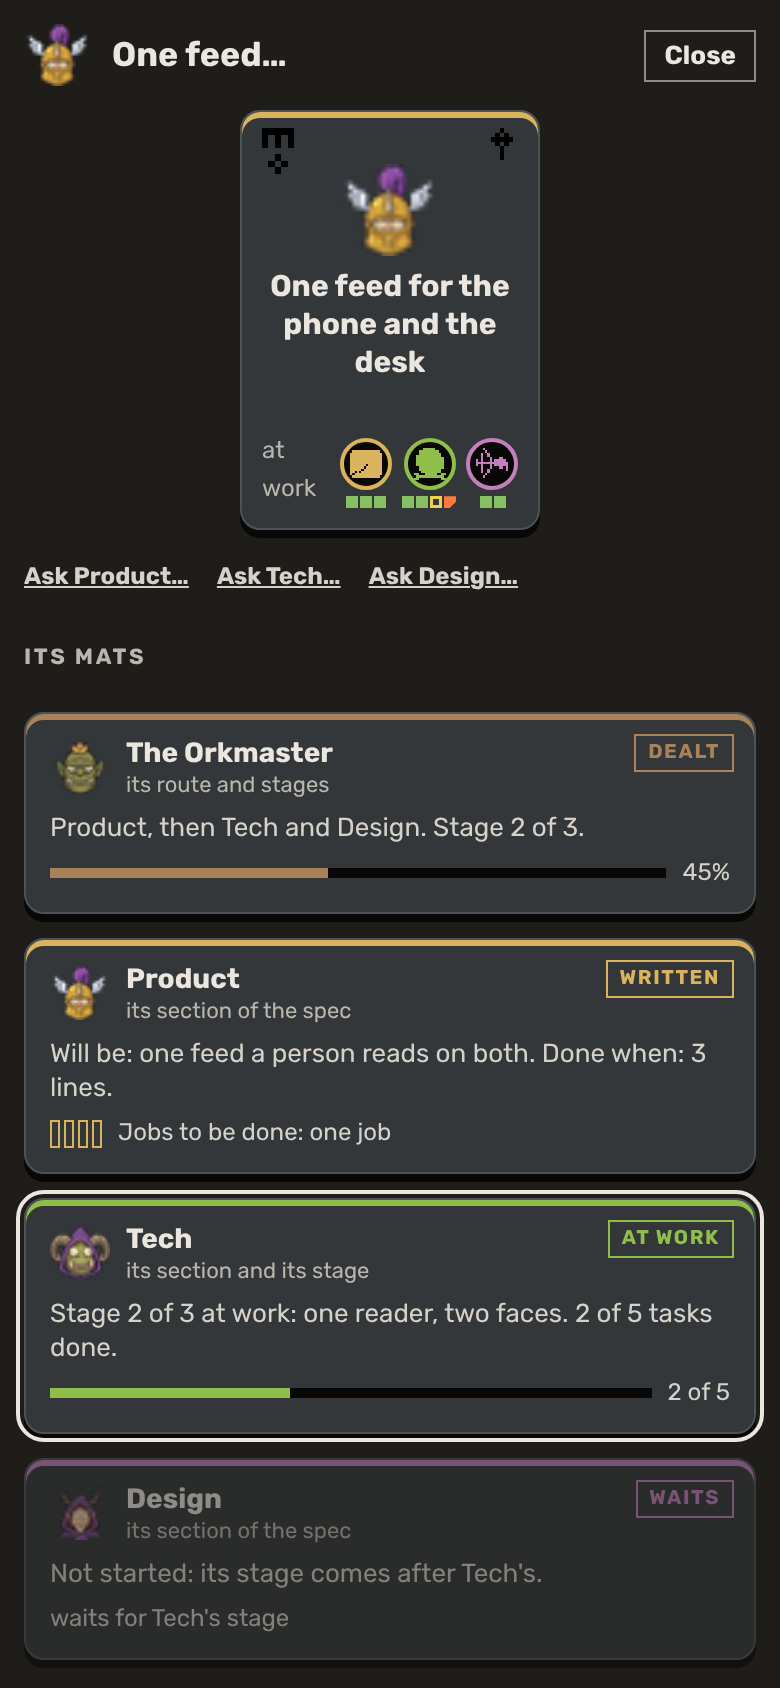
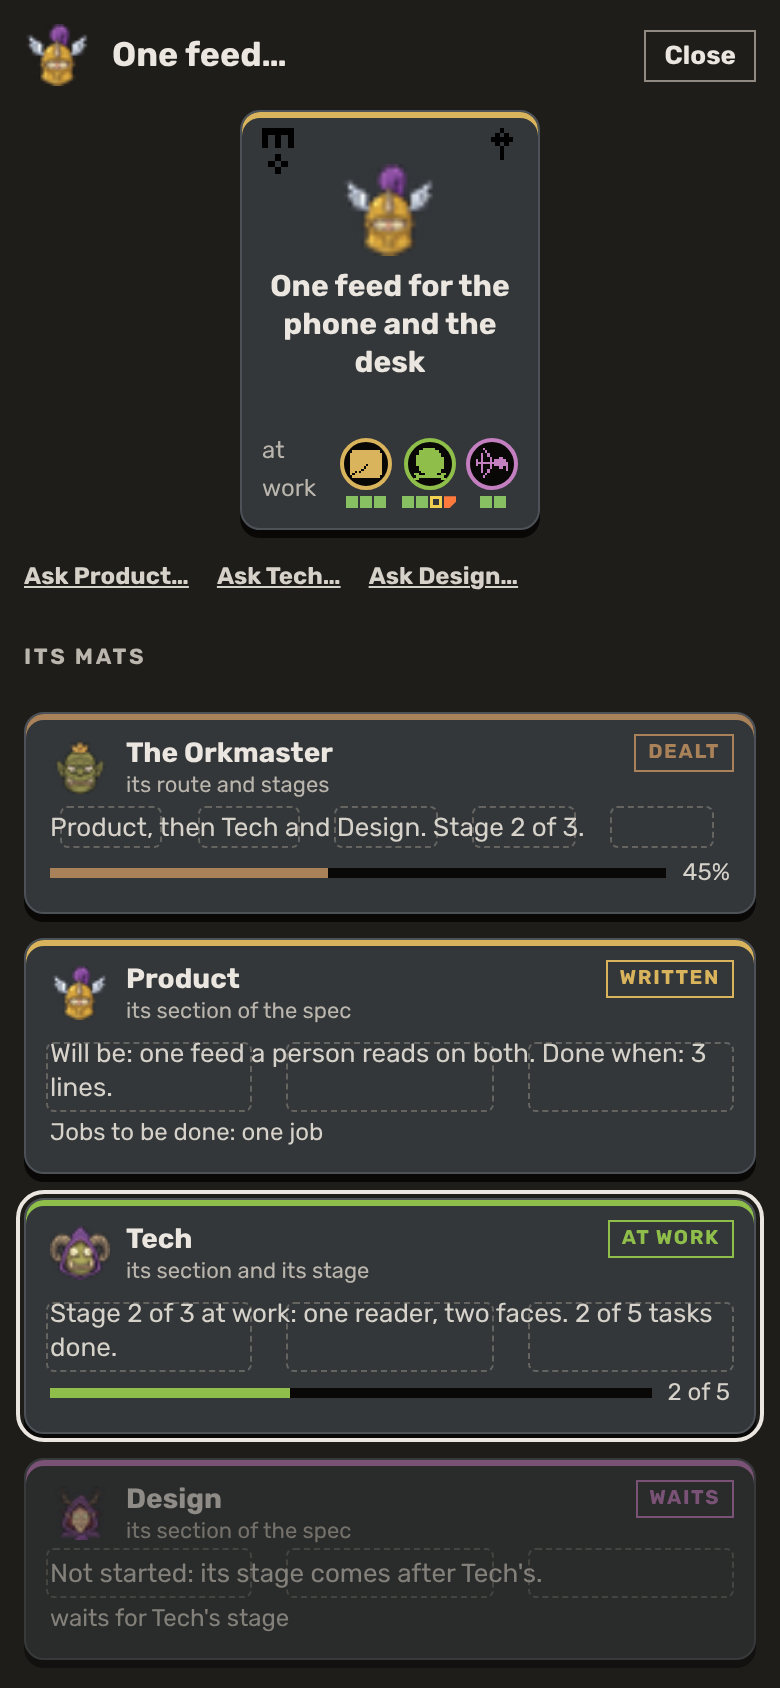
Goal 170: a mat shows its spread's slots, faint, behind its words (mockup)
Claude-Session: https://claude.ai/code/session_01MCU3dmA34fEdoDzq2L8ZZ5

Changed region(s): [[0.0615, 0.6469, 0.3077, 0.6777], [0.3385, 0.6469, 0.4923, 0.6777]]

diff --git a/docs/mockups/card-mats/index.html b/docs/mockups/card-mats/index.html
@@ -74,6 +74,17 @@ body { margin: 0; background: var(--ork-room); color: var(--ork-ink); font: 400 
 .note .rl { margin-top: 8px; display: inline-block; font: 700 12px/15px var(--ork-font-text); text-decoration: underline; }
 .mfoot { display: flex; gap: 10px; align-items: center; font-size: 12px; color: var(--ork-ink-muted); } .mfoot .kb { padding: 1px 5px; border: 1px solid var(--ork-edge); }
 
+/* a mat's slots: its spread's layout, faint, behind its words (the person, 12 November 2026) */
+.slots { position: absolute; left: 10px; right: 10px; top: 44%; bottom: 30px; pointer-events: none; }
+.slots i { position: absolute; border: 1px dashed var(--ork-edge); border-radius: 4px; opacity: .55; }
+.slots i.ch { border-radius: 50%; }
+.mt > :not(.slots):not(.state) { position: relative; }
+.gal { display: grid; grid-template-columns: repeat(4, 1fr); gap: 18px; padding: 24px 28px; }
+.gal h2 { grid-column: 1 / -1; margin: 0; font: 700 20px/24px var(--ork-font-text); } .gal .lead { grid-column: 1 / -1; margin: -8px 0 0; color: var(--ork-ink-read); font-size: 13px; }
+.gal .mt { max-height: none; }
+.gal .word { box-shadow: inset 0 3px 0 var(--hue), 0 4px 0 var(--ork-room); }
+.phone .gal { grid-template-columns: 1fr; padding: 14px; gap: 12px; } .phone .gal .mt { aspect-ratio: 3.5 / 2.2; }
+
 /* the phone */
 .ph { position: relative; padding: 12px; display: flex; flex-direction: column; gap: 12px; background: var(--ork-panel); min-height: 844px; }
 .ph .top { display: flex; align-items: center; gap: 10px; } .ph .top b { font: 700 17px/21px var(--ork-font-text); } .ph .top .shut { margin-left: auto; padding: 4px 9px; border: 1px solid var(--ork-edge); font: 700 13px/16px var(--ork-font-text); }
@@ -88,6 +99,20 @@ body { margin: 0; background: var(--ork-room); color: var(--ork-ink); font: 400 
 <script>
 const q = new URLSearchParams(location.search), V = q.get("v") || "card", FACE = q.get("face") || "desk";
 const R = "../../../design-system/orkui/", H = { tech: R + "races/shaman-elder.png", design: R + "races/dryad-elder.png", product: R + "races/unicorn-elder.png", om: R + "races/peon-crown.png" };
+const sl = (x, y, w = 16, h = 100, r = 0) => [x, y, w, h, r];
+const LAYOUT = {
+  diff: [sl(18, 0, 26), sl(56, 0, 26)],
+  arch: [[0, 0, 100, 24], ...[0, 1, 2, 3, 4].map((i) => sl(4 + i * 19, 34, 15, 28)), ...[0, 1, 2].map((i) => sl(14 + i * 26, 72, 18, 28))],
+  jtbd: [0, 1, 2, 3].flatMap((c) => [sl(3 + c * 25, 0, 20, 30), sl(3 + c * 25, 36, 20, 30), ...(c % 2 ? [] : [sl(3 + c * 25, 72, 20, 28)])]),
+  track: [0, 1, 2, 3, 4].map((i) => sl(2 + i * 20, 10, 15, 80)),
+  cost: [-14, -7, 0, 7, 14].map((r, i) => [24 + i * 11, 4 + Math.abs(i - 2) * 6, 16, 90, 0, r]),
+  duel: [sl(20, 0, 24), sl(56, 0, 24)],
+  sort: [0, 1, 2, 3, 4, 5, 6, 7].map((i) => sl(4 + (i % 4) * 24, i < 4 ? 0 : 54, 18, 46)),
+  deal: [0, 1, 2, 3].map((i) => [8 + i * 23, 50, 14, 46, 1]).concat([sl(38, -6, 22, 56)]),
+  battle: [sl(8, 0, 24), sl(58, 0, 20, 100, 0), sl(78, 0, 20, 100, 0)],
+  leader: [[0, 0, 30, 100], [35, 0, 30, 100], [70, 0, 30, 100]],
+};
+const slots = (k) => (k ? `<span class="slots" aria-hidden="true">${LAYOUT[k].map(([x, y, w, h, r, rot]) => `<i class="${r ? "ch" : ""}" style="left:${x}%;top:${y}%;width:${w}%;height:${h}%;${rot ? `rotate:${rot}deg` : ""}"></i>`).join("")}</span>` : "");
 const pip = (k) => `<i class="p ${k}"></i>`;
 const tk = (who, ks) => `<span class="tk ${who}"><span class="ring"><i></i></span><span class="pips">${ks.map(pip).join("")}</span></span>`;
 const TOKS = tk("product", ["ok", "ok", "ok"]) + tk("tech", ["ok", "ok", "q", "r"]) + tk("design", ["ok", "ok"]);
@@ -95,12 +120,12 @@ const TITLE = "One feed for the phone and the desk";
 const card = (cls = "") => `<div class="s product ${cls}"><img class="tl" src="${R}runes/comb.svg" alt=""><img class="tr" src="${R}signs/feature.svg" alt=""><img class="pic" src="${H.product}" alt=""><b>${TITLE}</b>
   <span class="foot"><span class="when">at work</span><span class="toks">${TOKS}</span></span></div>`;
 const MATS = [
-  { who: "om", name: "The Orkmaster", sub: "its route and stages", text: "Product, then Tech and Design. Stage 2 of 3.", ft: `<span class="bar"><i style="width:45%"></i></span>45%`, state: "dealt" },
-  { who: "product", name: "Product", sub: "its section of the spec", text: "Will be: one feed a person reads on both. Done when: 3 lines.", ft: `<span class="shape"><i></i><i></i><i></i><i></i></span>Jobs to be done: one job`, state: "written" },
-  { who: "tech", name: "Tech", sub: "its section and its stage", text: "Stage 2 of 3 at work: one reader, two faces. 2 of 5 tasks done.", ft: `<span class="bar"><i style="width:40%"></i></span>2 of 5`, state: "at work", on: true },
-  { who: "design", name: "Design", sub: "its section of the spec", text: "Not started: its stage comes after Tech's.", ft: "waits for Tech's stage", state: "waits", idle: true },
+  { who: "om", name: "The Orkmaster", sub: "its route and stages", slots: "track", text: "Product, then Tech and Design. Stage 2 of 3.", ft: `<span class="bar"><i style="width:45%"></i></span>45%`, state: "dealt" },
+  { who: "product", name: "Product", sub: "its section of the spec", slots: "leader", text: "Will be: one feed a person reads on both. Done when: 3 lines.", ft: `Jobs to be done: one job`, state: "written" },
+  { who: "tech", name: "Tech", sub: "its section and its stage", slots: "leader", text: "Stage 2 of 3 at work: one reader, two faces. 2 of 5 tasks done.", ft: `<span class="bar"><i style="width:40%"></i></span>2 of 5`, state: "at work", on: true },
+  { who: "design", name: "Design", sub: "its section of the spec", slots: "leader", text: "Not started: its stage comes after Tech's.", ft: "waits for Tech's stage", state: "waits", idle: true },
 ];
-const mt = (m, i) => `<div class="mt ${m.who}${m.on ? " on" : ""}${m.idle ? " idle" : ""}"><span class="state">${m.state}</span><div class="h"><img src="${H[m.who]}" alt=""><span><b>${m.name}</b><small>${m.sub}</small></span></div><p>${m.text}</p><span class="ft">${m.ft}</span></div>`;
+const mt = (m, i) => `<div class="mt ${m.who}${m.on ? " on" : ""}${m.idle ? " idle" : ""}${m.word ? " word" : ""}">${slots(m.slots)}${m.state ? `<span class="state">${m.state}</span>` : ""}<div class="h"><img src="${H[m.who]}" alt=""><span><b>${m.name}</b><small>${m.sub}</small></span></div><p>${m.text}</p><span class="ft">${m.ft}</span></div>`;
 const ask = `<div class="asks">${["Product", "Tech", "Design"].map((n) => `<span>Ask ${n}…</span>`).join("")}</div>`;
 const SECTION = `<div class="sec"><b>Will be</b>One reader below both faces, realm/board_feed.py; the phone keeps its own order apart.</div>
   <div class="sec"><b>Done when</b>
@@ -114,8 +139,23 @@ const TASKS = `<div class="tasks"><div class="task done"><img src="${H.tech}" al
 const CHECKS = `<div class="note tech"><b style="font:700 13px/16px var(--ork-font-text)">Its checks</b><ul><li>${pip("ok")}<span>One reader</span></li><li>${pip("ok")}<span>No module past 600 lines</span></li>
   <li>${pip("q")}<span>Does the phone keep its own order?<small>it cannot be rated without your answer</small></span></li><li>${pip("r")}<span>Two faces share one sort<small>fixed by: the phone's order kept apart</small></span></li></ul><span class="rl">Reply to Tech</span></div>`;
 
+const GAL = [
+  { who: "design", name: "Design", sub: "a change · 10:05", slots: "diff", text: "The lanes keep a card's ratio.", ft: "What changed" },
+  { who: "tech", name: "Tech", sub: "a change · 11:20", slots: "arch", text: "gui/ is past its line: split it.", ft: "Architecture: gui/" },
+  { who: "product", name: "Product", sub: "a change · 09:12", slots: "jtbd", text: "A new job: see what was spent.", ft: "Jobs to be done: a new job" },
+  { who: "om", name: "The Orkmaster", sub: "its mat", slots: "track", text: "Its stages, one a slot.", ft: "Its stages" },
+  { who: "om", name: "The Orkmaster", sub: "its mat", slots: "cost", text: "What each card costs today.", ft: "What each card costs" },
+  { who: "om", name: "The Orkmaster", sub: "its mat", slots: "duel", text: "Two new goals, which first?", ft: "Weigh two at a time" },
+  { who: "om", name: "The Orkmaster", sub: "its mat", slots: "sort", text: "Eight new goals to sort.", ft: "Sort the new goals" },
+  { who: "om", name: "The Orkmaster", sub: "its mat", slots: "deal", text: "Its route dealt on the chairs.", ft: "The deal" },
+  { who: "om", name: "The Orkmaster", sub: "its mat", slots: "battle", text: "A new card against two.", ft: "A battle" },
+  { who: "tech", name: "Tech", sub: "on One feed…", slots: "leader", text: "Its section, its stage, its verdict.", ft: "Tech on a card" },
+  { who: "design", name: "Design", sub: "news · 09:40", word: true, text: "The heads are drawn in the cartoon now; the runes go next.", ft: "a word: no slots, no mat" },
+];
 let html;
-if (FACE === "desk") {
+if (V === "slots") html = `<div class="face ${FACE}"><div class="gal"><h2>A mat shows its spread's slots, faint, behind its words</h2>
+  <p class="lead">Its layout is what it opens into; a word (the last) has none. The small shape beside its line goes.</p>${GAL.map(mt).join("")}</div></div>`;
+else if (FACE === "desk") {
   html = V === "card"
     ? `<div class="face desk"><span class="under"></span><div class="l product"><span class="shut">Close</span>${card()}
         <div><h2>${TITLE}</h2><p class="sub" style="margin:0">at work · Product leads · its tokens' slips beside it as now (pressed)</p>${ask}
